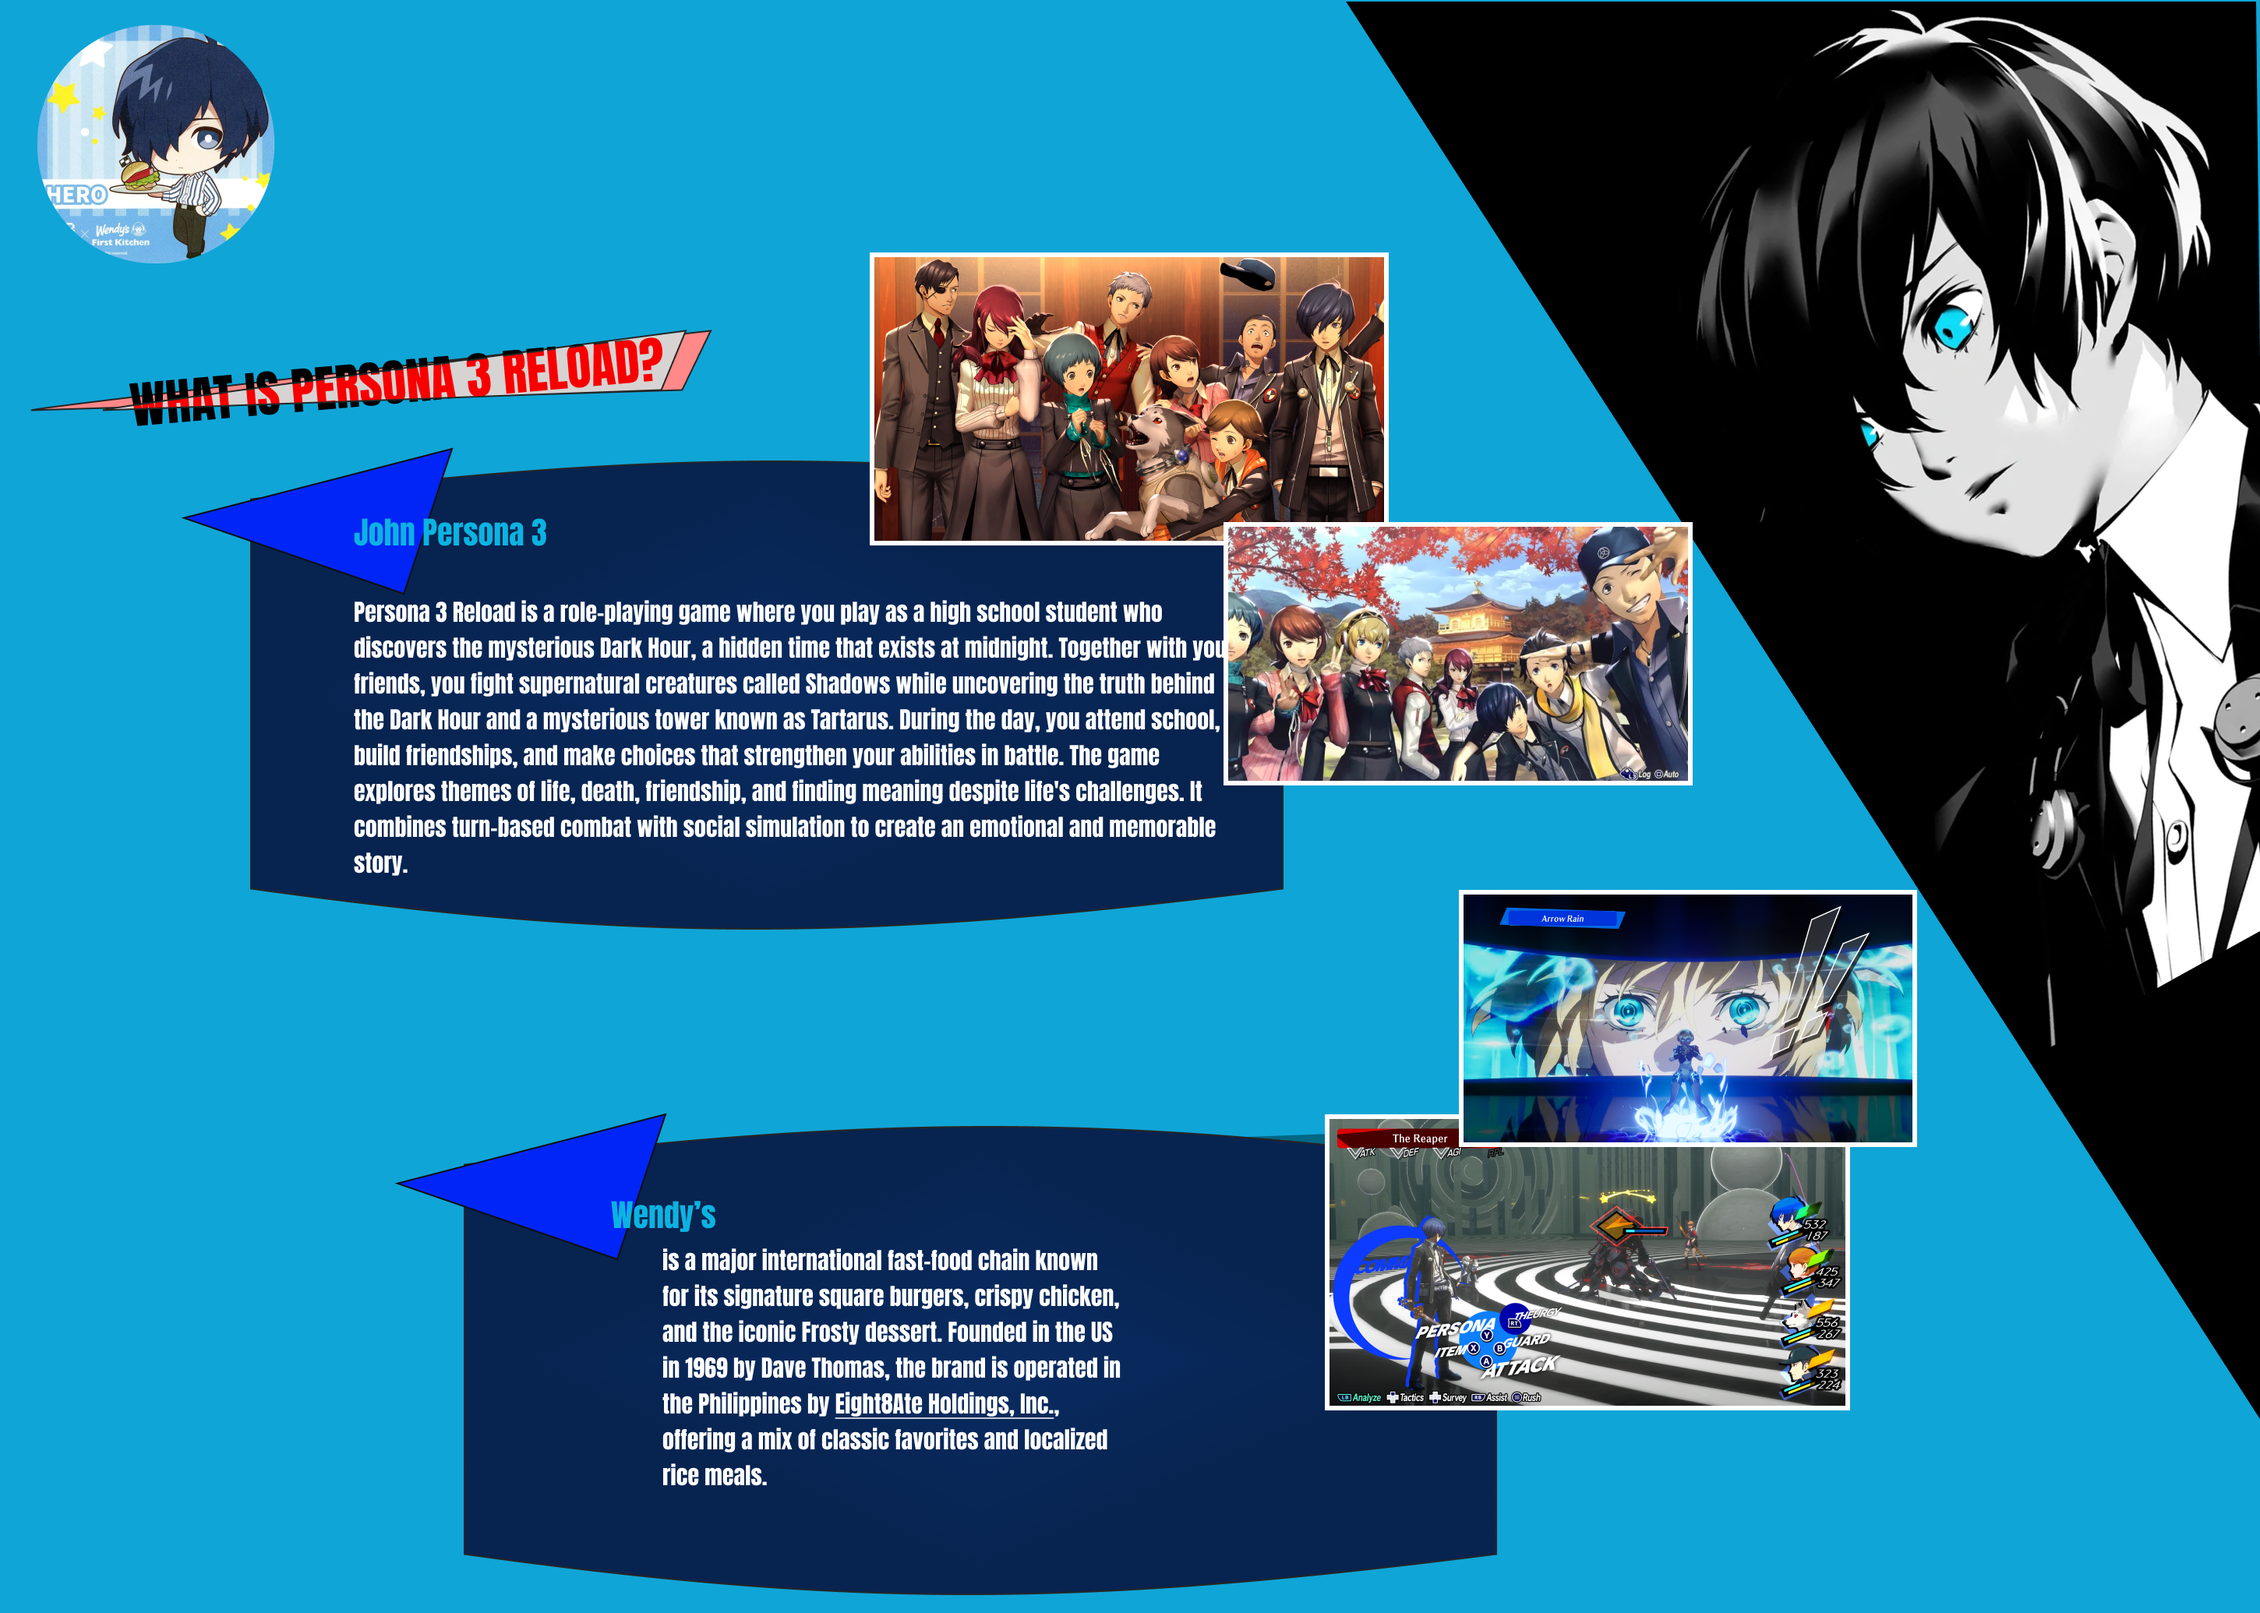
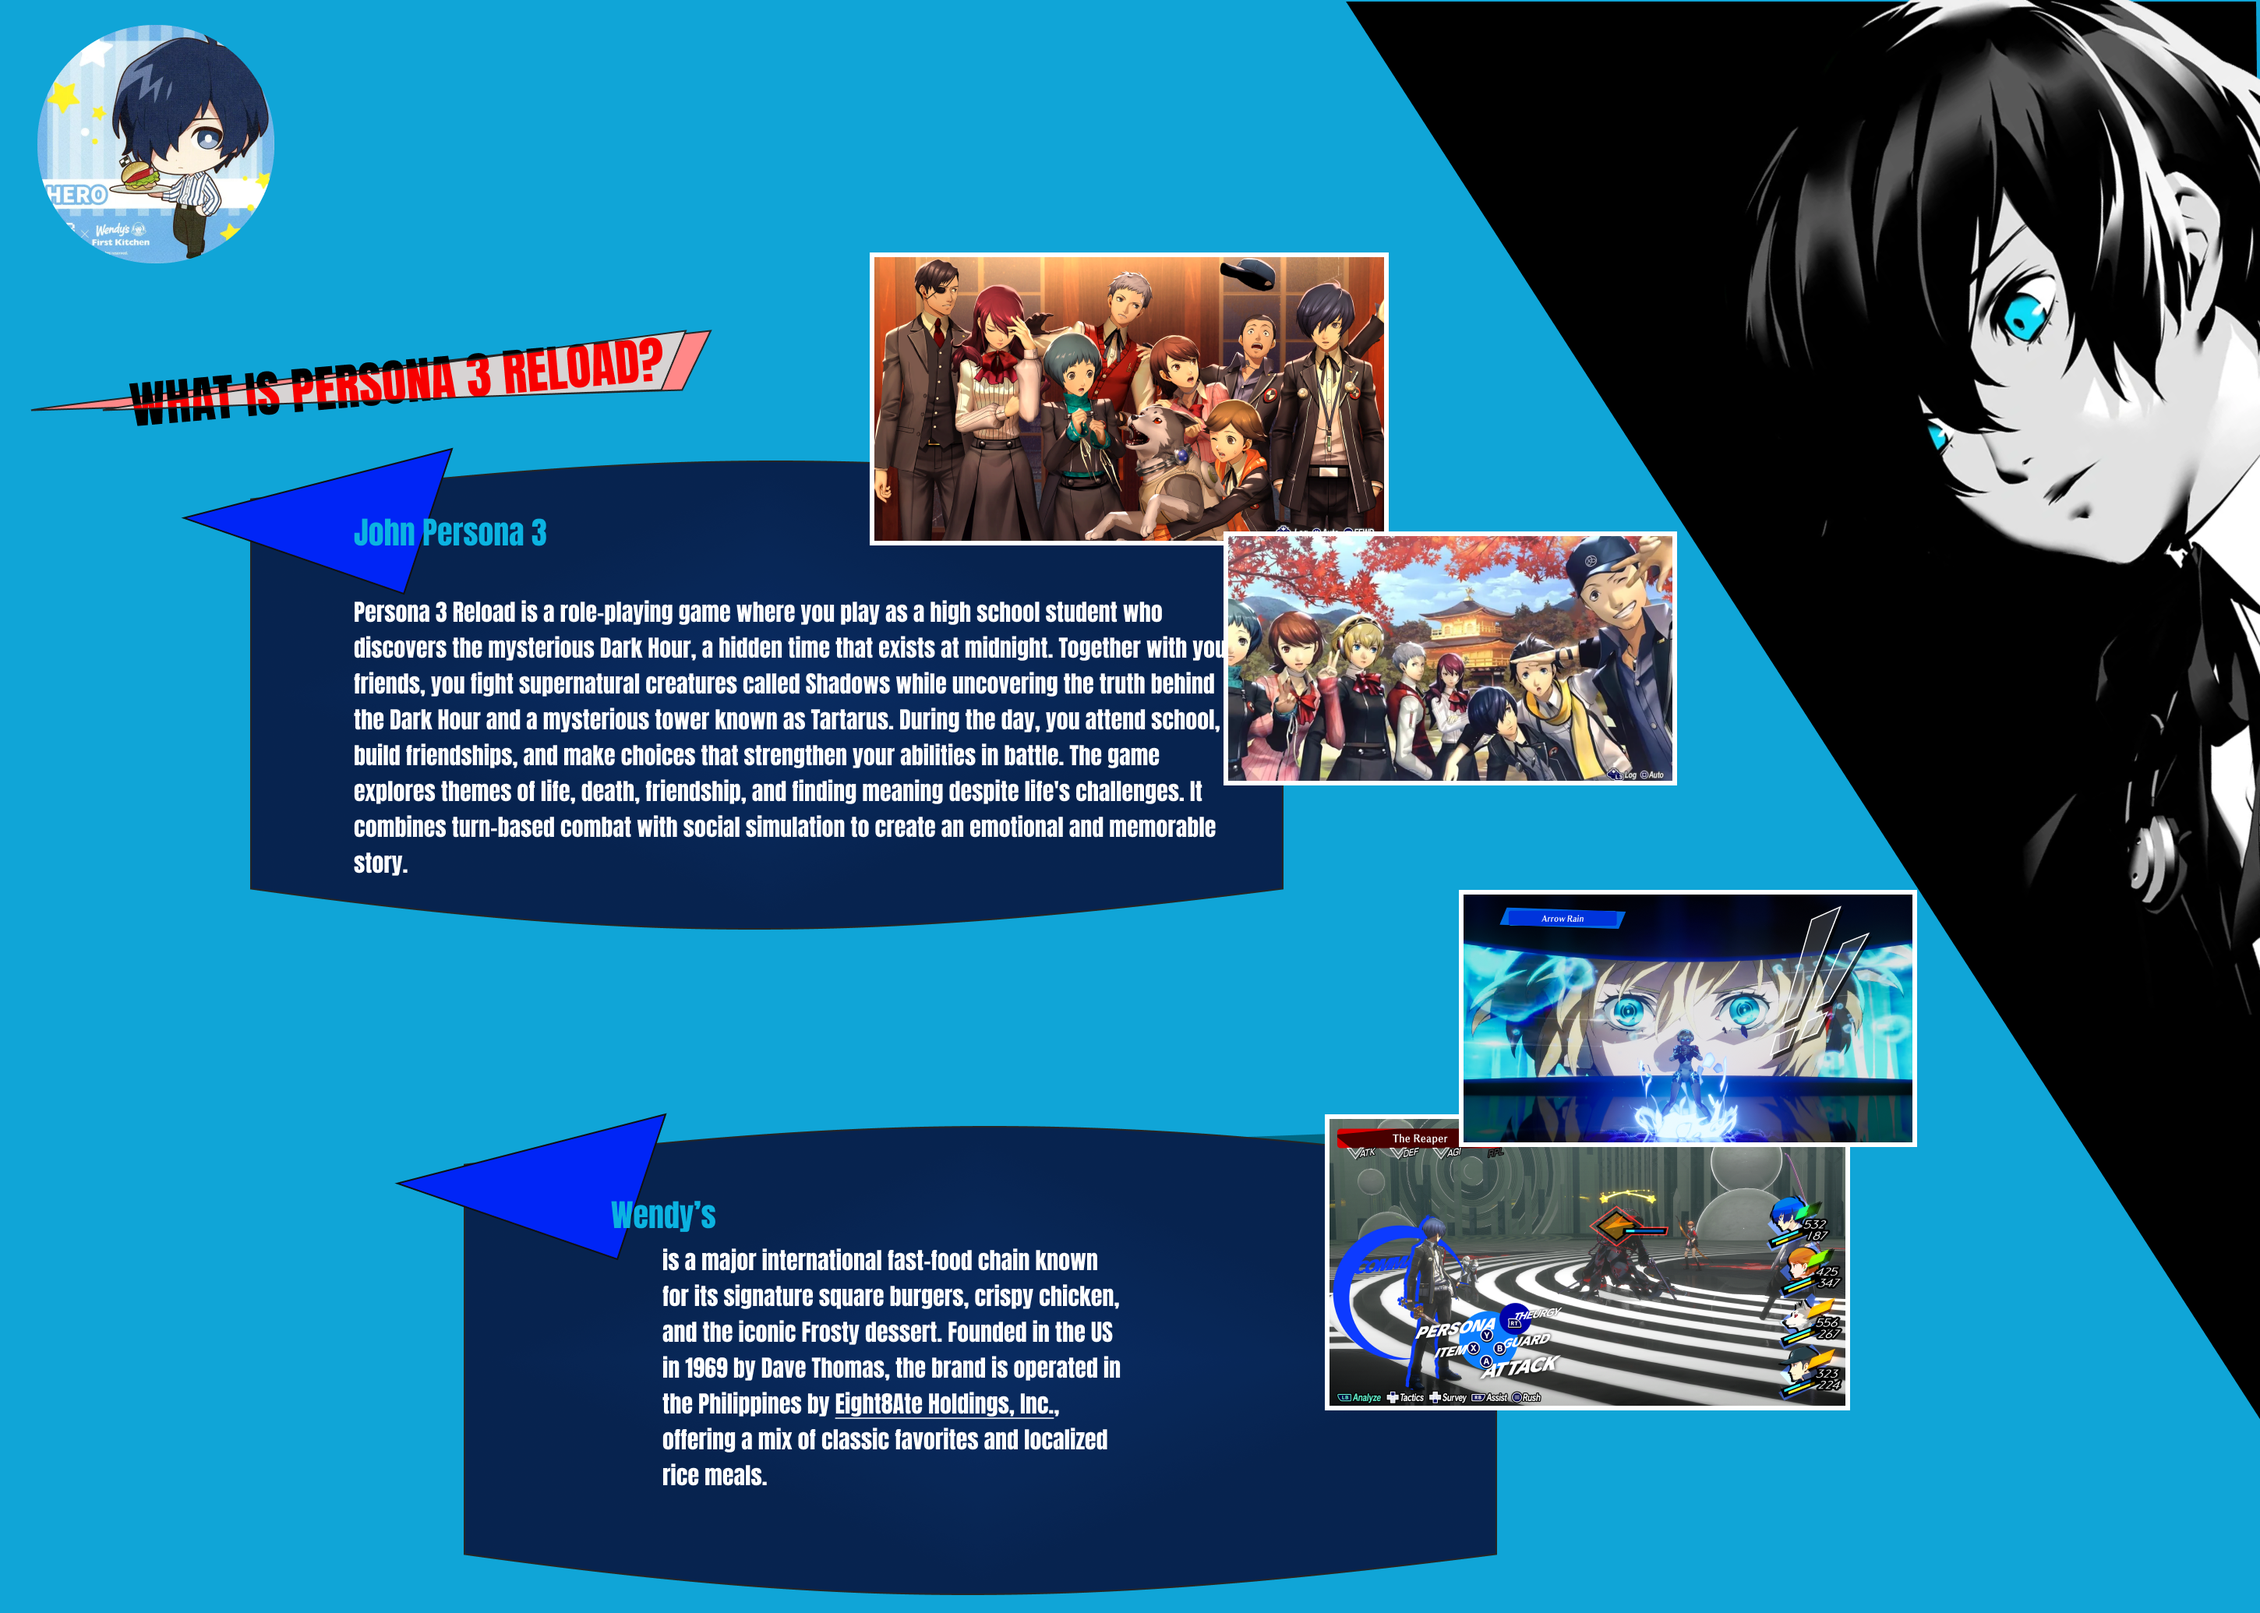
Added cards info and quote section

Changed region(s): [[0.7448, 0.0, 1.0, 0.6184], [0.5276, 0.3092, 0.7759, 0.4947], [0.8379, 0.4947, 0.869, 0.5256]]

diff --git a/src/home.js b/src/home.js
@@ -1,11 +1,126 @@
 
+import headerimg from "./images/persona3-collab.png"
+import makotoImg from "./images/makoto_burger.jpg"
+import yukariImg from "./images/yukari_ice.jpg"
+import aigisImg from "./images/aigis_maid.jpg"
+import authorImg from "./images/persona3_wendys.jpg"
 
 function home(parent){
     const wrapper = document.createElement("div")
     wrapper.classList.add("home-page")
+
+    const header = document.createElement("div")
+    header.classList.add("header")
+    const left = document.createElement("div")
+    left.classList.add("left-header")
+    const right = document.createElement("div")
+    right.classList.add("right-header")
+    const imageContainer = document.createElement("div")
+    imageContainer.classList.add("headimg-container")
+    
+    const headerImage = document.createElement("img")
+    headerImage.src = headerimg
+
+   
+
+
+    const title = document.createElement("h2")
+    title.textContent = "Persona 3 Reload X Wendy's Collaboration!"
+    left.appendChild(title)
+
+    const subtitle = document.createElement("p")
+    subtitle.textContent = "Persona 3 Reload x Wendy's is a limited-time crossover promotion where Wendy's Japan collaborates with Atlus's popular JRPG Persona 3 Reload. The tie-in features specially themed menu items — like burgers, chicken nuggets, and drinks — packaged and named after the game's characters (Makoto, Yukari, Junpei, Fuuka, etc.), along with exclusive collectible packaging, character art, and promotional merchandise tied to the collaboration."
+    left.appendChild(subtitle)
+
+    const hr = document.createElement("hr")
+
+    imageContainer.appendChild(headerImage)
+    right.appendChild(imageContainer)
+    header.appendChild(left)
+    header.appendChild(right)
+    wrapper.appendChild(header)
+    wrapper.appendChild(hr)
+
+    //body content
+
+    wrapper.appendChild(createbody())
+    wrapper.appendChild(createQuote())
     parent.appendChild(wrapper)
 }
 
+
+// background-image: 
+    // linear-gradient(rgba(1, 1, 1, 0.08), rgba(1, 1, 1, 0.08)),
+    // radial-gradient(farthest-corner at center, #666666 24%, #333333 76%);
+    // background-blend-mode: normal, overlay;
+
+
+function createCard(imgSrc, caption){
+    const card = document.createElement("div")
+    card.classList.add("body-cards")
+
+    const image = document.createElement("img")
+    image.src = imgSrc
+
+    const text = document.createElement("p")
+    text.textContent = caption
+
+    card.appendChild(image)
+    card.appendChild(text)
+    return card
+}
+
+
+function createbody(){
+
+    const bodyContainer = document.createElement("div")
+    bodyContainer.classList.add("body-container")
+    const bodyText = document.createElement("h2")
+    bodyText.textContent = "Step into the Dark Hour and satisfy your hunger like never before. Wendy's teams up with Persona 3 Reload to bring a menu inspired by  S.E.E.S. and the halls of Gekkoukan High — every item wrapped in  exclusive collab packaging."
+    const bodyImgContainer = document.createElement("div")
+    bodyImgContainer.classList.add("bodyimg-container")
+    const bodyCard1 = createCard(makotoImg, "Orpheus, eat this burger")
+    const bodyCard2 = createCard(yukariImg, "Isis, show them ice cream!")
+    const bodyCard3 = createCard( aigisImg, "I comprehend!")
+
+   
+    bodyContainer.appendChild(bodyText)
+    bodyImgContainer.appendChild(bodyCard1)
+    bodyImgContainer.appendChild(bodyCard2)
+    bodyImgContainer.appendChild(bodyCard3)
+    bodyContainer.appendChild(bodyImgContainer)
+    return bodyContainer
+
+
+}
+
+function createQuote(){
+    const quoteContainer = document.createElement("div")
+    quoteContainer.classList.add("quote-container")
+    const quoteImgContainer = document.createElement("div")
+    quoteImgContainer.classList.add("quote-img-container")
+    const quoteImg = document.createElement("img")
+    quoteImg.src = authorImg
+    const quote = document.createElement("div")
+    quote.classList.add("quote")
+    const quoteText1 = document.createElement("p")
+    quoteText1.textContent = `"The Arcana is the means by which all is revealed... and also this burger is 1,400 yen."`
+    const quoteText2 = document.createElement("p")
+    quoteText2.textContent = `"Thou art I, and I art the special sauce".`
+    const author = document.createElement("p")
+    author.textContent = `-Nyx Burger Arcana`
+    author.classList.add("author")
+
+    quote.appendChild(quoteText1)
+    quote.appendChild(quoteText2)
+    quote.appendChild(author)
+    quoteContainer.appendChild(quoteImgContainer)
+    quoteImgContainer.appendChild(quoteImg)
+    quoteContainer.appendChild(quote)
+    
+
+    return quoteContainer
+}
 
 export  default home
 

diff --git a/src/style.css b/src/style.css
@@ -1,29 +1,159 @@
-body{
-    background-color: rgb(16, 165, 215);
+
+
+
+
+body {
+    background-color:  rgb(16, 165, 215);
 }
 
 ul {
     display:flex;
-    justify-content: space-between;
+    gap:150px;
     list-style: none;
 }
 
 .home-page{
+    overflow:hidden;
+    padding-top: 130px;
+    background-color: rgb(16, 165, 215);
     display:flex;
     flex-direction: column;
-    justify-content: center;
-    align-items: center;
     min-height: 100vh;
-    background-image: url("./images/persona3-collab.png");
     background-size: cover;
     background-repeat:no-repeat;
-    min-height:100vh;
+    color:white;
+    padding-bottom: 50px;
+    max-width: 100%;
+}
+.header-button{
+    display:flex;
+    justify-content: center;
+}
+
+
+
+hr{
+    border:none;
+    border-top: 1px solid white;
+    width:100%;
+    margin: 20px 0;
+}
+
+.header{
+    display:flex;
+    flex-wrap: wrap;
+    height: auto;
+    margin-bottom: 100px;
+}
+
+.left-header{
+    margin-left: 100px;
+    display:flex;
+    flex-direction: column;
+    flex: 1 1 400px;
+    font-family: 'Anton', sans-serif
+}
+
+.left-header h2 {
+    font-size:45px;
+}
+
+.left-header p {
+    flex-shrink: 0;
+}
+
+.right-header{
+    margin-left:200px;
+    flex: 1 1 400px;
+}
+
+.headimg-container{
+    display:flex;
+}
+
+.headimg-container img {
+    width:550px;
+}
+
+.body-container {
+    font-family: "Antic Slab", serif;
+    text-shadow: 0px 5px 0px rgba(0,0,0,0.10);
+    display:flex;
+    flex-direction: column;
+    align-items:center;
+    text-align: center;
+    max-width:800px;
+    margin: 40px auto;
+    margin-bottom:240px;
+}
+
+.bodyimg-container{
+    margin-top: 30px;
+    display:flex;
+    gap: 50px;
+}
+
+.body-cards{
+    font-size:17px;
+    background-color: #0B367A;
+    width:242px;
+    height:232px;
+    border-radius: 30px;
+}
+
+.bodyimg-container img {
+    padding-top: 20px;
+    width:100px;
+    height:100px;
+    border-radius: 9999px;
+}
+
+.quote-container{
+    display:flex;
+    justify-content: center;
+    margin: 0 auto;
+    width:100%;
+    align-items: center;
+    background-color: #0B367A;
+    position: relative;
+    padding:100px;
+    gap:100px;
+    background-image: 
+     linear-gradient(rgba(1, 1, 1, 0.08), rgba(1, 1, 1, 0.08)),
+     radial-gradient(farthest-corner at center, #666666 24%, #333333 76%);
+    background-blend-mode: normal, overlay;
+}
+
+.quote-img-container{
+    display:flex;
+    flex-shrink: 0;
+    position: absolute;
+    left:10%;
+    width:400px;
+    height:400px;
+    margin-left:100px;
+}
+
+.quote {
+    font-family: "Antic Slab", serif;
+    display:flex;
+    flex-direction: column;
+    align-items:center;
+    padding:40px;
+    max-width:500px;
+    margin-left:400px;
+    font-size: 30px;
+    margin-right:100px;
+}
+
+.author{
+    align-self:flex-end;
 }
 
 .about-page{
     display:flex;
     background-image: url("./images/about-persona.png");
-    background-size: cover;
+    background-size: contain;
     background-repeat: no-repeat;
     background-position: top center;
     min-height: 125vh;
@@ -41,6 +171,7 @@ button{
 }
 
 .menu-page{
+    background-color:  rgb(16, 165, 215);;
     margin-top:80px;
 }
 

diff --git a/src/template.html b/src/template.html
@@ -3,11 +3,16 @@
 <head>
     <meta charset="UTF-8">
     <link rel="stylesheet" href="style.css">
+   <link rel="preconnect" href="https://fonts.googleapis.com">
+<link rel="preconnect" href="https://fonts.gstatic.com" crossorigin>
+<link href="https://fonts.googleapis.com/css2?family=Anton&family=Antic+Slab&display=swap" rel="stylesheet">
+
     <meta name="viewport" content="width=device-width, initial-scale=1.0">
     <title>Document</title>
 </head>
 <body>
-    <header>
+    <div class="header-button">
+        <header>
         <nav>
             <ul>
                 <li><button id="home">Home</button></li>
@@ -15,8 +20,11 @@
                 <li><button id="about">About</button></li>
                 <li><button id="contact">Contact Us</button></li>
             </ul>
+            
         </nav>
     </header>
+    </div>
+    <hr>
     <div id="content"></div>
 </body>
 </html>
